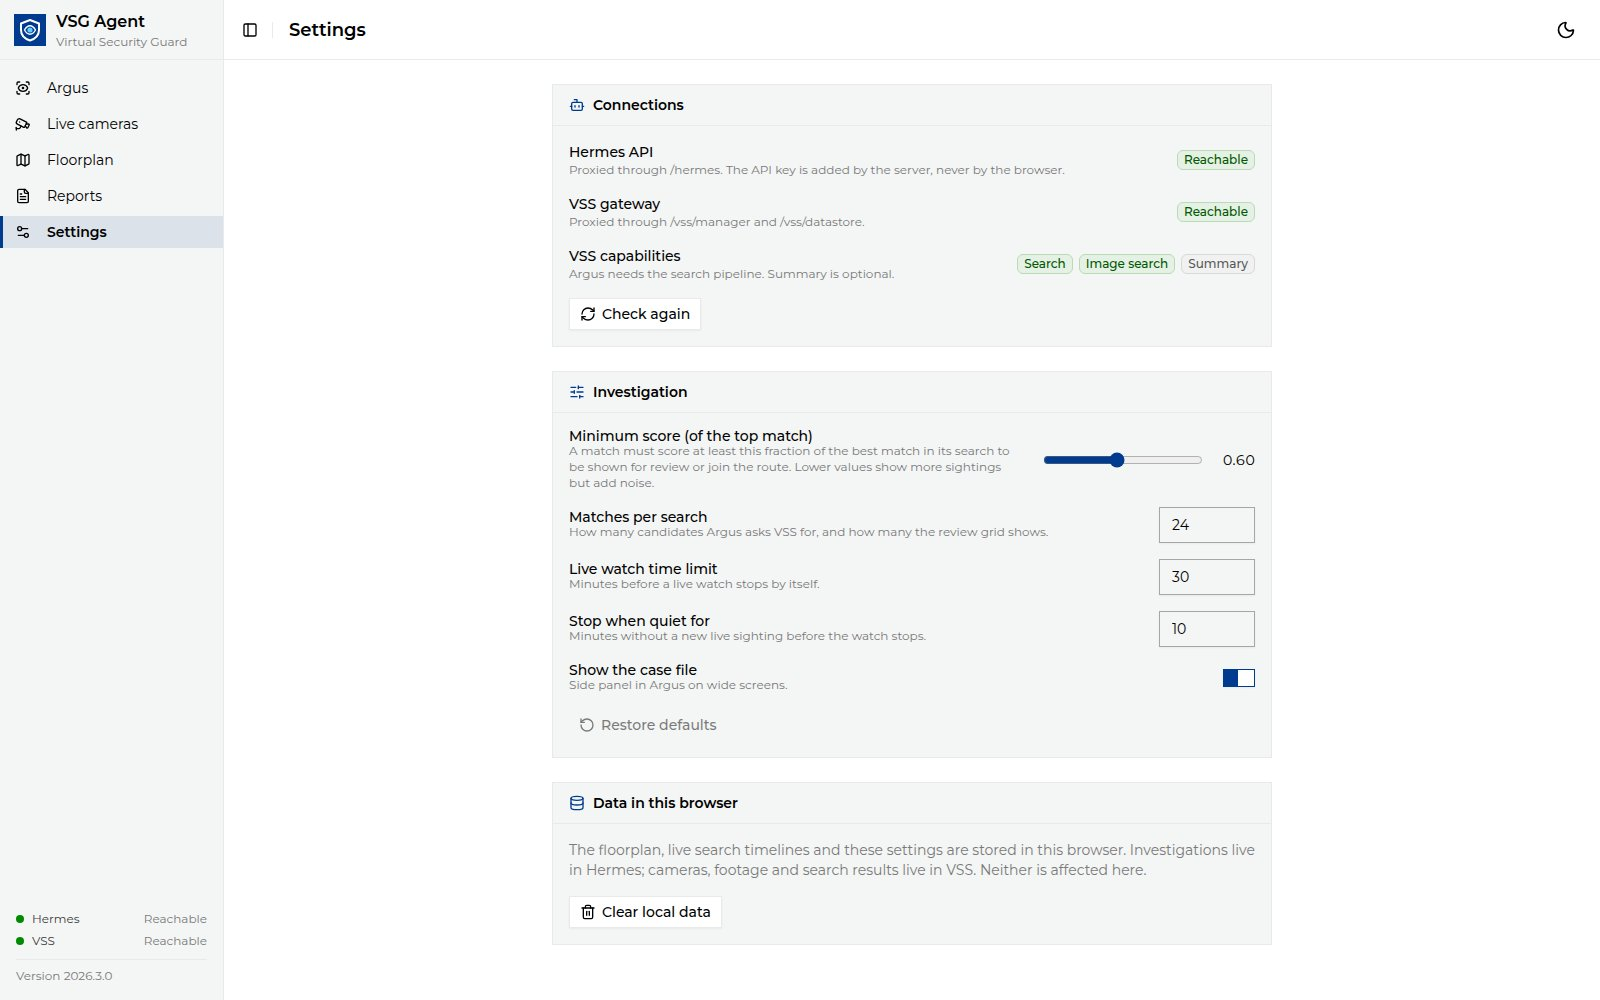
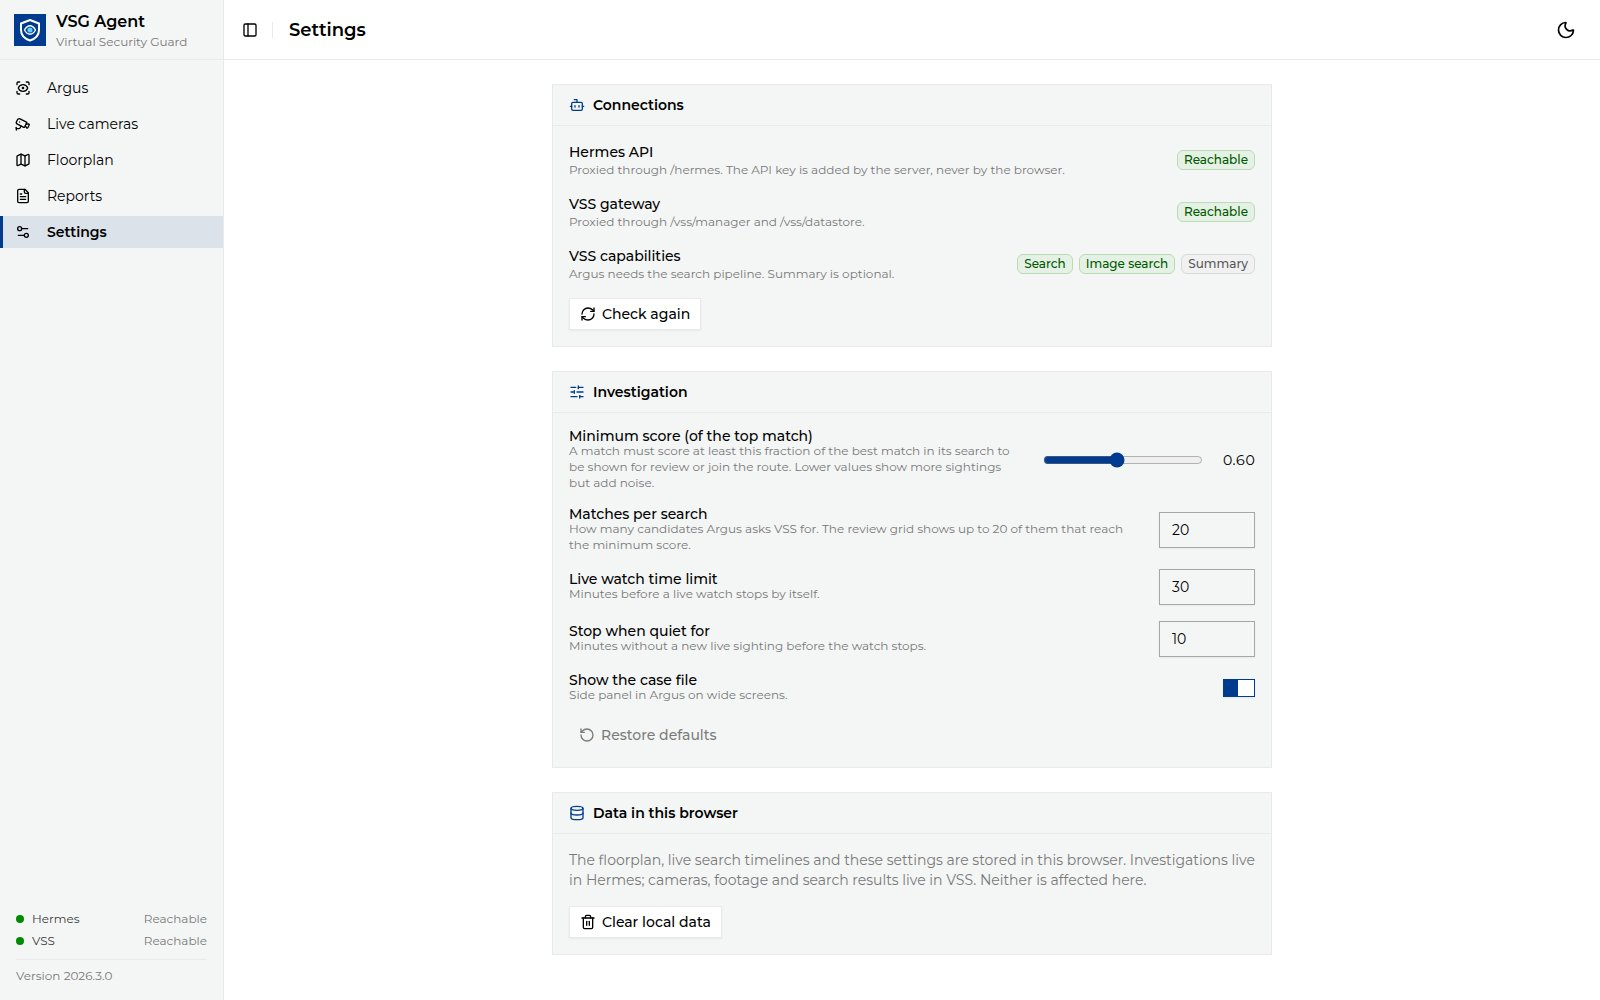
Update settings and documentation for search limit adjustments

diff --git a/virtual-security-guard-agent/ui/src/features/settings/SettingsPage.tsx b/virtual-security-guard-agent/ui/src/features/settings/SettingsPage.tsx
@@ -233,7 +233,7 @@ function Investigation() {
       </Row>
       <Row
         label={<Label htmlFor="limit">Matches per search</Label>}
-        hint="How many candidates Argus asks VSS for, and how many the review grid shows."
+        hint="How many candidates Argus asks VSS for. The review grid shows up to 20 of them that reach the minimum score."
       >
         <NumberField
           id="limit"

diff --git a/virtual-security-guard-agent/ui/src/stores/settings.ts b/virtual-security-guard-agent/ui/src/stores/settings.ts
@@ -28,7 +28,7 @@ export const SETTINGS_DEFAULTS = {
   sidebarOpen: true,
   caseFileOpen: true,
   minTraceScore: 0.6,
-  searchLimit: 24,
+  searchLimit: 20,
   watchMinutes: 30,
   watchIdleMinutes: 10,
 };

diff --git a/virtual-security-guard-agent/docs/user-guide/how-to-guides/investigate-a-person.md b/virtual-security-guard-agent/docs/user-guide/how-to-guides/investigate-a-person.md
@@ -176,7 +176,7 @@ parameters. They are stored in the browser.
 | Setting | Default | Effect |
 |---|---|---|
 | Minimum score (of the top match) | `0.60` | Fraction of the best match's score a match needs to be shown for review and join the route. Lower shows more sightings but adds noise. |
-| Matches per search | `24` | Candidates Argus asks VSS for. The grid shows up to 20. |
+| Matches per search | `20` | Candidates Argus asks VSS for. The grid shows up to 20 of them that reach the minimum score. |
 | Live watch time limit | `30` min | Live search stops by itself after this. |
 | Stop when quiet for | `10` min | Live search stops after this long without a new sighting. |
 | Show the case file | on | Side panel on wide screens. |

diff --git a/virtual-security-guard-agent/docs/user-guide/design.md b/virtual-security-guard-agent/docs/user-guide/design.md
@@ -181,7 +181,7 @@ Zustand stores in `ui/src/stores/`:
 | `cameras` | VSS live streams and their status. |
 | `floorplan` | Active plan (persisted). |
 | `reports` | PDFs generated in this tab (memory only, lost on reload). |
-| `settings` | Minimum score (0.6), search limit (24), watch duration (30 min), idle stop (10 min). |
+| `settings` | Minimum score (0.6), search limit (20), watch duration (30 min), idle stop (10 min). |
 
 Pure route helpers (`confirmedSightings`, `movementLegs`, `timelineLines`)
 live in `stores/case.ts`.
